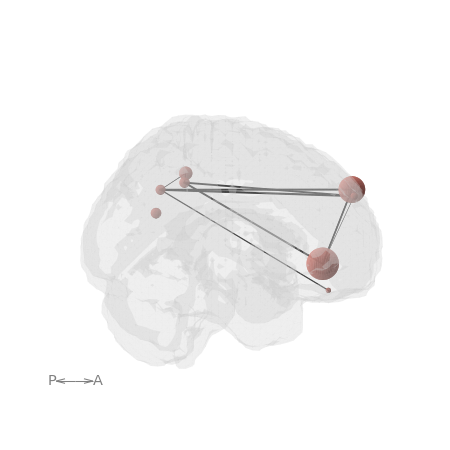
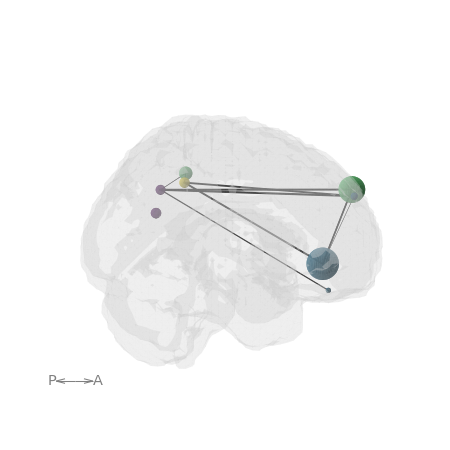
colorby_column_or_single_color

diff --git a/netonbrain/plotting/plot_spheres.py b/netonbrain/plotting/plot_spheres.py
@@ -2,9 +2,10 @@ import matplotlib.pyplot as plt
 import numpy as np
 import pandas as pd
 import random
+from matplotlib import cm
 
 
-def _plot_spheres(ax, nodes, nodecolor='salmon', nodesize=20, nodescale=1, nodecols=['x', 'y', 'z'], alpha=None):
+def _plot_spheres(ax, nodes, nodecolor='salmon', colorby='communities', nodesize=20, nodescale=1, nodecols=['x', 'y', 'z'], alpha=None):
     """
     Function that plots spheres in figure
 
@@ -27,9 +28,9 @@ def _plot_spheres(ax, nodes, nodecolor='salmon', nodesize=20, nodescale=1, nodec
     Nothing
 
     """
-
+    
     # Loop through each node and plot a surface plot
-    for _, row in nodes.iterrows():
+    for index, row in nodes.iterrows():
         # Get the xyz coords for the node
         c = [row[nodecols[0]],
              row[nodecols[1]],
@@ -47,7 +48,17 @@ def _plot_spheres(ax, nodes, nodecolor='salmon', nodesize=20, nodescale=1, nodec
         x = r*np.cos(u)*np.sin(v)
         y = r*np.sin(u)*np.sin(v)
         z = r*np.cos(v)
-
-        ax.plot_surface(c[0]+x, c[1]+y, c[2]+z,
-                        color=nodecolor,
-                        alpha=alpha)
+        
+        if colorby is None:
+            ax.plot_surface(c[0]+x, c[1]+y, c[2]+z,
+                            color=nodecolor,
+                            alpha=alpha)
+        if colorby in nodes.keys():
+            cat = np.unique(nodes[colorby])
+            viridis = cm.get_cmap('viridis', 12)
+            colors = viridis(np.linspace(0, 1, len(cat)))
+            colordict = dict(zip(cat, colors))
+            nodes["Color"] = nodes[colorby].apply(lambda z:colordict[z])
+            ax.plot_surface(c[0]+x, c[1]+y, c[2]+z,
+                            color=nodes.Color[index],
+                            alpha=alpha)

diff --git a/examples/example1.py b/examples/example1.py
@@ -13,9 +13,11 @@ nodez = np.array([30, 30, -16, -16, 35, 35, 44, 44])
 # Some psuedo_strength measure to demonstrate size
 strength = np.array([0.3, 0.3, 1, 0.15, 0.2, 0.8, 0.4, 0.3])
 betweenness = np.array([1, 0.1, 1, 1, 0.5, 0.4, 0.9, 1])
+communities = np.array([1, 1, 5, 5, 5, 7, 7, 8])
 nodesdf = pd.DataFrame(data={'x': nodex, 'y': nodey,
                            'z': nodez, 'strength': strength,
-                           'betweenness': betweenness})
+                           'betweenness': betweenness,
+                           'communities': communities})
 
 n = 8  # number of nodes
 m = 12  # number of edges
